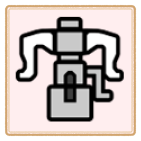
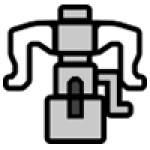
選択したボタンの背景変更

diff --git a/src/components/Weapon/WeaponCategory.tsx b/src/components/Weapon/WeaponCategory.tsx
@@ -2,7 +2,7 @@ import React from 'react'
 import styled from 'styled-components'
 import Image from 'next/image'
 import IconGreatSword from '../../assets/icon-greatSword.png'
-import IconKatana from '../../assets/icon-katana.png'
+import Iconlongsword from '../../assets/icon-longsword.png'
 import IconSword from '../../assets/icon-sword.png'
 import IconDoubleSword from '../../assets/icon-doublesword.png'
 import IconLance from '../../assets/icon-lance.png'
@@ -11,7 +11,7 @@ import IconHummer from '../../assets/icon-hummer.png'
 import IconHorn from '../../assets/icon-horn.png'
 import IconSlashAx from '../../assets/icon-slashax.png'
 import IconChargeAx from '../../assets/icon-chargeax.png'
-import IconInsectStick from '../../assets/icon-insectstick.png'
+import IconInsectStick from '../../assets/icon-insect.png'
 import IconHeavyBowGun from '../../assets/icon-heavybowgun.png'
 import IconLightBowGun from '../../assets/icon-lightbowgun.png'
 import IconBow from '../../assets/icon-bow.png'
@@ -24,7 +24,7 @@ interface WeaponCategoryProps {
 
 const weaponIconList = [
   IconGreatSword,
-  IconKatana,
+  Iconlongsword,
   IconSword,
   IconDoubleSword,
   IconLance,
@@ -98,8 +98,9 @@ const CategorySection = styled.div`
 
 const Button = styled.button`
   padding: 0;
-  background-color: transparent;
-  border: none;
+  background-color: #fff9db;
+  border: 1px solid #d2a10e;
+  border-radius: 5px;
   cursor: pointer;
   transition: all 0.5s ease-in-out;
   &:hover {
@@ -107,9 +108,15 @@ const Button = styled.button`
   }
   img {
     width: 100%;
-    height: 100%;
+    padding: 2px;
+  }
+  @media screen and (min-width: 576px) {
+    border: 2px solid #d2a10e;
   }
   @media screen and (min-width: 768px) {
+    img {
+      padding: 5px;
+    }
   }
   @media screen and (min-width: 992px) {
   }

diff --git a/src/components/Weapon/WeaponDerivated.tsx b/src/components/Weapon/WeaponDerivated.tsx
@@ -17,10 +17,12 @@ const DerivatedCategory: React.FC<WeaponDerivatedProps> = ({
   derivations,
   onSelectDerivation,
 }) => {
-  const [selectedIndex, setSelectedIndex] = useState<number | null>(null)
+  const [selectedDerivation, setSelectedDerivation] = useState<string | null>(
+    null
+  )
 
-  const handleButtonClick = (index: number, derivation: Derivation) => {
-    setSelectedIndex(index)
+  const handleSelect = (derivation: Derivation) => {
+    setSelectedDerivation(derivation.name)
     onSelectDerivation(derivation.weapons, derivation.name)
   }
 
@@ -33,10 +35,10 @@ const DerivatedCategory: React.FC<WeaponDerivatedProps> = ({
             <button
               key={index}
               className={`toppan weapon-item d-flex align-items-center my-2 py-1 px-2 ${
-                selectedIndex === index ? 'selected' : ''
+                selectedDerivation === derivation.name ? 'selected' : ''
               }`}
               type="button"
-              onClick={() => handleButtonClick(index, derivation)}
+              onClick={() => handleSelect(derivation)}
             >
               <Image src={IconWeapon} alt="" className="weapon-icon" />
               <p className="mb-0 ms-1 ms-lg-2">{derivation.name}</p>
@@ -98,7 +100,6 @@ const DerivatedSection = styled.div`
     }
     .weapon-derivated-list {
       height: auto;
-      border: none;
       padding: 0;
       &::after {
         width: 45%;
@@ -111,6 +112,11 @@ const DerivatedSection = styled.div`
   @media screen and (min-width: 768px) {
     .section-border {
       padding: 40px 0;
+    }
+    .weapon-derivated-list {
+      max-height: none;
+      overflow-y: auto;
+      border: none;
     }
   }
   @media screen and (min-width: 992px) {
